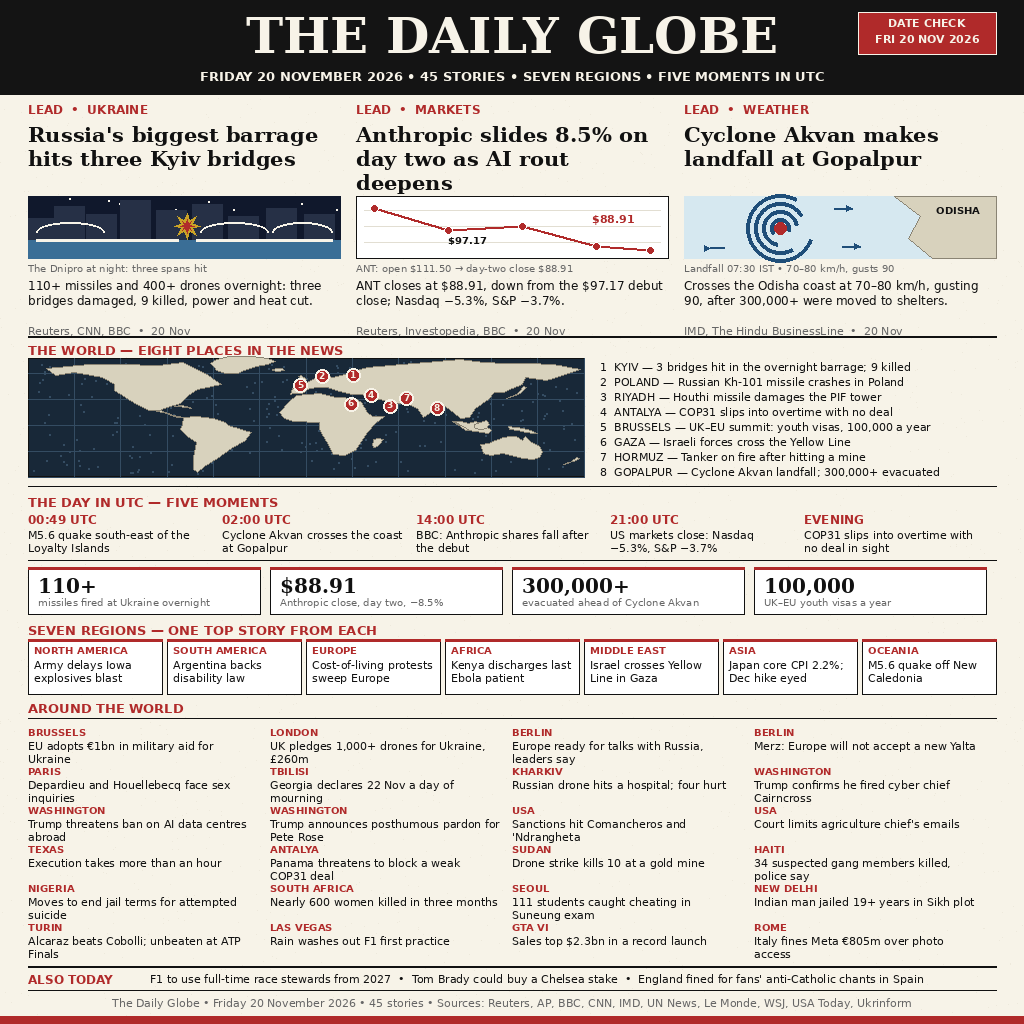
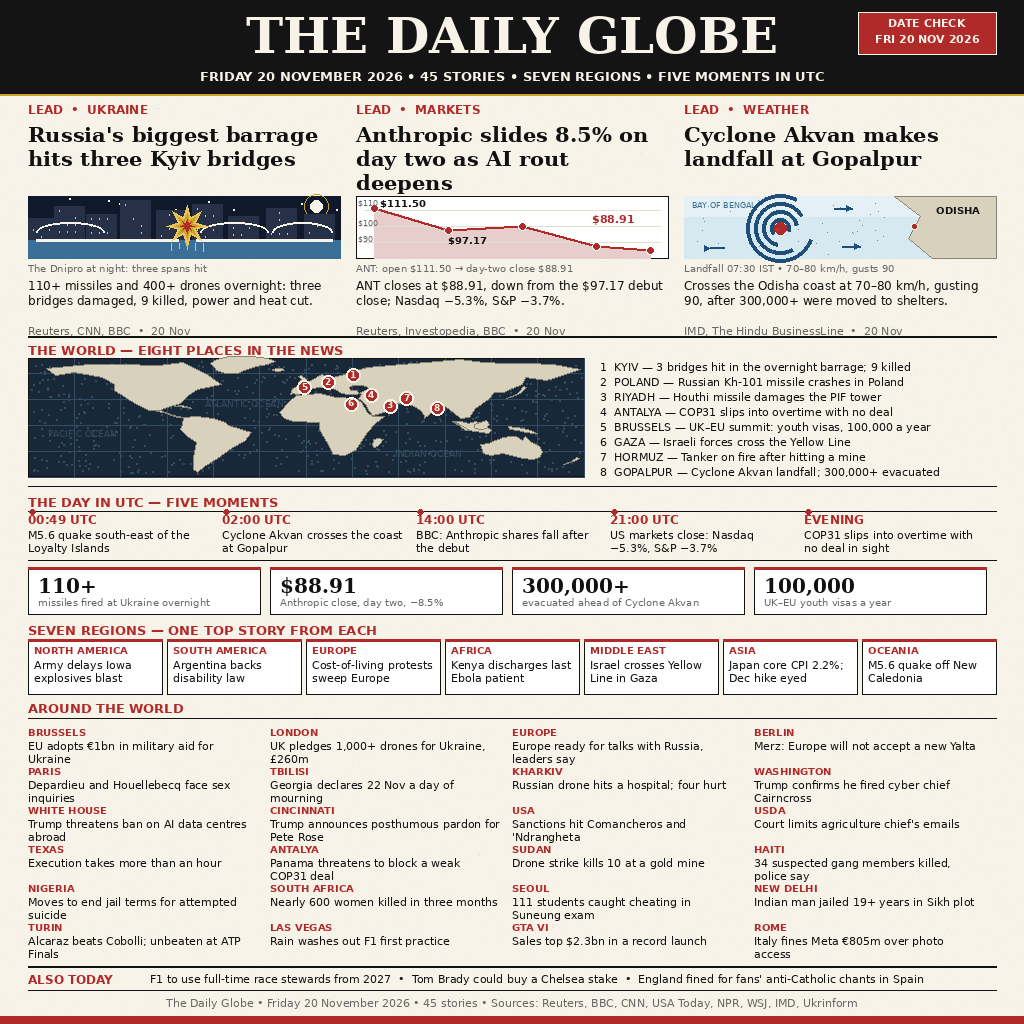
Fix pass 21 Nov: dedup grid datelines, correct footer sources, craft enrichment
- Grid: BERLIN x2/WASHINGTON x3/USA x2 -> EUROPE, WHITE HOUSE,
  CINCINNATI, USDA (all 24 datelines unique, order kept)
- Footer sources: drop AP/UN News/Le Monde, now Reuters, BBC, CNN,
  USA Today, NPR, WSJ, IMD, Ukrinform (all cited in STORIES.md)
- Map: refined Eurasia polygon, stipple 260->700, ocean labels,
  pins 2/5 nudged onto land (min separation 18.5 px)
- Kyiv: moon+glow, lit windows, river reflection, blast glow
- Markets: area fill, y-axis labels, $111.50 open label
- Cyclone: two-tone sky, rain dots, BAY OF BENGAL label, landfall dot
- Paper grain 2400->6000, gold rule under masthead, timeline spine
  + dots (y=511, measured clear band; y=506 struck the kicker)
- Deterministic: 3 runs byte-identical, sha256 c2c8eb43...
  (185,659 bytes, 1024x1024 RGB)

diff --git a/main.py b/main.py
@@ -156,10 +156,15 @@ EURASIA = [(-10, 36), (-9, 43), (-3, 48), (2, 51), (7, 55), (10, 59),
            (85, 74), (100, 76), (115, 73), (130, 72), (145, 72), (160, 70),
            (178, 65), (170, 60), (162, 56), (156, 52), (142, 55), (140, 48),
            (134, 43), (128, 38), (122, 38), (118, 30), (110, 20), (106, 10),
-           (100, 8), (96, 14), (90, 22), (86, 20), (80, 14), (76, 9),
-           (72, 20), (65, 25), (58, 26), (52, 28), (48, 30), (42, 31),
-           (36, 36), (30, 36), (24, 38), (20, 41), (14, 44), (8, 44),
-           (2, 43), (-2, 37), (-9, 37)]
+           (100, 8), (96, 14), (90, 22), (88, 21), (86, 19), (82, 16),
+           (80, 13), (77, 8), (77, 12), (75, 16), (72, 20), (68, 23),
+           (65, 25), (61, 25), (58, 26), (56, 24), (54, 17), (50, 15),
+           (46, 13), (43, 12), (42, 15), (40, 20), (39, 23), (36, 29),
+           (34, 31), (36, 36), (34, 38), (33, 41), (29, 41), (28, 44),
+           (31, 46), (36, 46), (39, 45), (41, 42), (38, 41), (36, 38),
+           (33, 36), (30, 36), (27, 36), (23, 37), (21, 39), (19, 42),
+           (15, 44), (12, 44), (8, 44), (5, 43), (3, 42), (0, 38),
+           (-2, 37), (-6, 36), (-9, 37)]
 BRITAIN = [(-5, 50), (-3, 53), (-5, 57), (-3, 58), (0, 53), (-1, 51)]
 JAPAN = [(130, 31), (133, 34), (136, 35), (139, 37), (141, 41), (143, 44),
          (141, 45), (139, 40), (136, 36), (132, 33)]
@@ -191,9 +196,9 @@ LAND = [NORTH_AMERICA, SOUTH_AMERICA, AFRICA, EURASIA, BRITAIN, JAPAN,
         NEW_GUINEA, SUMATRA, CUBA, ICELAND]
 
 # (number, lon, lat, nudge_x, nudge_y)
-PINS = [("1", 30.5, 50.4, 0, -6), ("2", 23.5, 53.9, -20, -2),
+PINS = [("1", 30.5, 50.4, 0, -6), ("2", 23.5, 53.9, -14, 4),
         ("3", 46.7, 24.7, 12, 2), ("4", 30.7, 36.9, 18, 2),
-        ("5", 4.35, 50.85, -12, 4), ("6", 34.5, 31.5, -8, 6),
+        ("5", 4.35, 50.85, -8, 6), ("6", 34.5, 31.5, -8, 6),
         ("7", 56.3, 26.6, 14, -4), ("8", 84.9, 19.3, 0, 0)]
 KEY = ["1  KYIV \u2014 3 bridges hit in the overnight barrage; 9 killed",
        "2  POLAND \u2014 Russian Kh-101 missile crashes in Poland",
@@ -225,16 +230,16 @@ REGIONS = [("NORTH AMERICA", "Army delays Iowa explosives blast"),
 
 GRID = [("BRUSSELS", "EU adopts \u20ac1bn in military aid for Ukraine"),
         ("LONDON", "UK pledges 1,000+ drones for Ukraine, \u00a3260m"),
-        ("BERLIN", "Europe ready for talks with Russia, leaders say"),
+        ("EUROPE", "Europe ready for talks with Russia, leaders say"),
         ("BERLIN", "Merz: Europe will not accept a new Yalta"),
         ("PARIS", "Depardieu and Houellebecq face sex inquiries"),
         ("TBILISI", "Georgia declares 22 Nov a day of mourning"),
         ("KHARKIV", "Russian drone hits a hospital; four hurt"),
         ("WASHINGTON", "Trump confirms he fired cyber chief Cairncross"),
-        ("WASHINGTON", "Trump threatens ban on AI data centres abroad"),
-        ("WASHINGTON", "Trump announces posthumous pardon for Pete Rose"),
+        ("WHITE HOUSE", "Trump threatens ban on AI data centres abroad"),
+        ("CINCINNATI", "Trump announces posthumous pardon for Pete Rose"),
         ("USA", "Sanctions hit Comancheros and 'Ndrangheta"),
-        ("USA", "Court limits agriculture chief's emails"),
+        ("USDA", "Court limits agriculture chief's emails"),
         ("TEXAS", "Execution takes more than an hour"),
         ("ANTALYA", "Panama threatens to block a weak COP31 deal"),
         ("SUDAN", "Drone strike kills 10 at a gold mine"),
@@ -263,13 +268,33 @@ def art_kyiv(dr, x, y):
         sx = x + rng.randint(4, w - 4)
         sy = y + rng.randint(2, 18)
         dr.ellipse([sx, sy, sx + 1, sy + 1], fill=(247, 243, 232))
+    # moon + glow ring, top right
+    dr.ellipse([x + 276, y - 2, x + 300, y + 22], outline=GOLD, width=1)
+    dr.ellipse([x + 282, y + 4, x + 294, y + 16], fill=(247, 243, 232))
     # skyline silhouette
     for bx, bh in ((0, 22), (26, 34), (58, 26), (92, 40), (128, 30),
                    (164, 36), (200, 24), (238, 32), (276, 26)):
         dr.rectangle([x + bx, y + h - 18 - bh, x + bx + 30, y + h - 18],
                      fill=SKYLINE)
+    # seeded lit windows (gold 1x2 dots) on the building rects
+    wrng = random.Random(SEED + 11)
+    for bx, bh in ((0, 22), (26, 34), (58, 26), (92, 40), (128, 30),
+                   (164, 36), (200, 24), (238, 32), (276, 26)):
+        top = y + h - 18 - bh
+        for wx in (bx + 5, bx + 13, bx + 21):
+            for wy in range(top + 4, y + h - 20, 7):
+                if wrng.random() < 0.45:
+                    dr.rectangle([x + wx, wy, x + wx, wy + 1],
+                                 fill=(232, 196, 90))
     # river
     dr.rectangle([x, y + h - 18, x + w, y + h], fill=STEEL)
+    # river reflection: short steel-light streaks under the blast
+    rrng = random.Random(SEED + 12)
+    for dx in (-16, -8, 0, 8, 16):
+        ry0 = y + h - 15
+        ry1 = ry0 + rrng.randint(5, 9)
+        dr.line([(x + 159 + dx, ry0), (x + 159 + dx, ry1)],
+                fill=(170, 200, 220), width=1)
     # bridge: deck + two arches, middle span broken by a blast
     dr.line([(x + 8, y + 44), (x + 150, y + 44)], fill=(247, 243, 232),
             width=3)
@@ -281,7 +306,8 @@ def art_kyiv(dr, x, y):
            fill=(247, 243, 232), width=2)
     dr.arc([x + 244, y + 26, x + 304, y + 46], 180, 360,
            fill=(247, 243, 232), width=2)
-    # blast where the middle span was
+    # blast where the middle span was (outer glow first, then core)
+    burst(dr, x + 159, y + 30, 21, (232, 196, 90))
     burst(dr, x + 159, y + 30, 13, GOLD)
     burst(dr, x + 159, y + 30, 7, RED)
     dr.text((x, y + h + 4), "The Dnipro at night: three spans hit",
@@ -292,16 +318,24 @@ def art_markets(dr, x, y):
     """A falling line: $111.50 open, $97.17 close, $88.91 day two."""
     w, h = 312, 62
     dr.rectangle([x, y, x + w, y + h], fill=PANEL, outline=INK, width=1)
-    # gridlines
+    pts = [(x + 18, y + 12), (x + 92, y + 34), (x + 166, y + 30),
+           (x + 240, y + 50), (x + 294, y + 54)]
+    # light-red area fill under the line
+    dr.polygon(pts + [(x + 294, y + 62), (x + 18, y + 62)],
+               fill=(232, 205, 205))
+    # gridlines (redrawn over the fill so they stay visible)
     for gy in (y + 14, y + 30, y + 46):
         dr.line([(x + 8, gy), (x + w - 8, gy)], fill=(226, 222, 210),
                 width=1)
-    pts = [(x + 18, y + 12), (x + 92, y + 34), (x + 166, y + 30),
-           (x + 240, y + 50), (x + 294, y + 54)]
     dr.line(pts, fill=RED, width=3)
     for px, py in pts:
         dr.ellipse([px - 4, py - 4, px + 4, py + 4], fill=RED,
                    outline=PANEL, width=1)
+    # y-axis labels (tiny gray, left, just above their gridlines)
+    dr.text((x + 2, y + 2), "$110", font=font("sans", 8), fill=GRAY)
+    dr.text((x + 2, y + 22), "$100", font=font("sans", 8), fill=GRAY)
+    dr.text((x + 2, y + 38), "$90", font=font("sans", 8), fill=GRAY)
+    dr.text((x + 24, y + 1), "$111.50", font=font("sans_b", 10), fill=INK)
     dr.text((x + 92, y + 38), "$97.17", font=font("sans_b", 10), fill=INK)
     dr.text((x + 236, y + 16), "$88.91", font=font("sans_b", 11), fill=RED)
     dr.text((x, y + h + 4), "ANT: open $111.50 \u2192 day-two close $88.91",
@@ -312,17 +346,30 @@ def art_cyclone(dr, x, y):
     """Spiral storm over a coastline, with wind arrows."""
     w, h = 312, 62
     dr.rectangle([x, y, x + w, y + h], fill=(214, 232, 240))
+    # two-tone sky: lighter band across the top
+    dr.rectangle([x, y, x + w, y + 20], fill=(228, 240, 246))
+    dr.text((x + 8, y + 4), "BAY OF BENGAL", font=font("sans", 8),
+            fill=STEEL)
     # coastline
     dr.polygon([(x + 210, y), (x + 236, y + 20), (x + 224, y + 42),
                 (x + 248, y + h), (x + w, y + h), (x + w, y)],
                fill=(216, 210, 189), outline=LANDLINE)
     dr.text((x + 252, y + 8), "ODISHA", font=font("sans_b", 10), fill=INK)
+    # landfall dot on the coastline at the spiral edge
+    dr.ellipse([x + 227, y + 27, x + 233, y + 33], fill=RED,
+               outline=(247, 243, 232), width=1)
     # spiral arms
     cx, cy = x + 96, y + 32
     for r, a0, a1 in ((34, 20, 300), (26, 60, 330), (18, 100, 350),
                       (10, 140, 380)):
         dr.arc([cx - r, cy - r, cx + r, cy + r], a0, a1, fill=BLUE, width=4)
     dr.ellipse([cx - 6, cy - 6, cx + 6, cy + 6], fill=RED)
+    # seeded rain dots around the spiral
+    rrng = random.Random(SEED + 3)
+    for _ in range(40):
+        rx = x + rrng.randint(6, 200)
+        ry = y + rrng.randint(4, 58)
+        dr.point((rx, ry), fill=(90, 140, 175))
     # wind arrows
     for ax, ay, dx in ((x + 150, y + 12, 18), (x + 158, y + 50, 18),
                        (x + 40, y + 52, -14)):
@@ -351,7 +398,7 @@ def render(out_path):
 
     # faint paper grain (seeded: identical every run), under everything
     grain = random.Random(SEED + 7)
-    for _ in range(2400):
+    for _ in range(6000):
         gx = grain.randint(0, W - 1)
         gy = grain.randint(96, H - 1)
         dr.point((gx, gy), fill=(238, 233, 220))
@@ -370,6 +417,8 @@ def render(out_path):
             fill=(247, 243, 232), anchor="ma")
     dr.text((927, 32), "FRI 20 NOV 2026", font=font("sans_b", 11),
             fill=(247, 243, 232), anchor="ma")
+    # thin gold rule under the masthead band
+    dr.line([(0, 94), (W, 94)], fill=GOLD, width=2)
 
     # ---------- three leads ----------
     colx = [28, 356, 684]
@@ -388,7 +437,7 @@ def render(out_path):
                  width=1)
     # stippled ocean (seeded: identical every run), drawn before land
     rng = random.Random(SEED)
-    for _ in range(260):
+    for _ in range(700):
         dx = MX + rng.randint(3, MW - 3)
         dy = MY + rng.randint(3, MH - 3)
         dr.ellipse([dx, dy, dx + 1, dy + 1], fill=MAPLINE)
@@ -402,6 +451,13 @@ def render(out_path):
     for poly in LAND:
         pts = [project(lon, lat) for lon, lat in poly]
         dr.polygon(pts, fill=LANDC, outline=LANDLINE)
+    # ocean labels in open water
+    dr.text((205, 398), "ATLANTIC OCEAN", font=font("sans", 9),
+            fill=MAPLINE)
+    dr.text((48, 428), "PACIFIC OCEAN", font=font("sans", 9),
+            fill=MAPLINE)
+    dr.text((395, 448), "INDIAN OCEAN", font=font("sans", 9),
+            fill=MAPLINE)
     for num, lon, lat, nx, ny in PINS:
         px, py = project(lon, lat)
         px, py = px + nx, py + ny
@@ -417,6 +473,14 @@ def render(out_path):
 
     # ---------- UTC timeline ----------
     kicker(dr, 28, 494, "THE DAY IN UTC \u2014 FIVE MOMENTS", 13)
+    # spine across the section with a red dot above each time column
+    # (y=511: measured — kicker glyphs end at 507, time-label glyphs
+    # start at 515, so the spine/dots sit in the clear 508..514 band;
+    # y=506 as first drafted struck through the kicker)
+    dr.line([(28, 511), (996, 511)], fill=INK, width=1)
+    for i in range(len(TIMES)):
+        x = 28 + i * 194
+        dr.ellipse([x + 1, 509, x + 7, 514], fill=RED)
     for i, (t, txt) in enumerate(TIMES):
         x = 28 + i * 194
         dr.text((x, 512), t, font=font("sans_b", 12), fill=RED)
@@ -458,8 +522,8 @@ def render(out_path):
     rule(dr, 28, 996, 990, 1)
     para(dr, 28, 996,
          "The Daily Globe  \u2022  Friday 20 November 2026  \u2022  45 "
-         "stories  \u2022  Sources: Reuters, AP, BBC, CNN, IMD, UN News, "
-         "Le Monde, WSJ, USA Today, Ukrinform",
+         "stories  \u2022  Sources: Reuters, BBC, CNN, USA Today, NPR, "
+         "WSJ, IMD, Ukrinform",
          font("sans", 11), 968, GRAY, center=True)
     dr.rectangle([0, 1016, W, H], fill=RED)
 

diff --git a/BUILD-REPORT.md b/BUILD-REPORT.md
@@ -79,6 +79,67 @@ in order:
 - All 45 stories listed with verification source and date in
   `STORIES.md`, including a "Deliberately NOT used" section.
 
+## Fix pass (21 Nov 2026)
+
+Visual audit of the v3 render (full size + 2x crops) found two
+faithfulness/cosmetic defects and several flat-craft weaknesses; all
+fixed in `main.py`, 45 stories/facts unchanged, order of the 24 grid
+cells unchanged.
+
+Defects fixed:
+
+- Grid dateline duplicates: BERLIN x2, WASHINGTON x3, USA x2.
+  Re-datelined in place — "Europe ready for talks with Russia" BERLIN
+  → EUROPE; "Trump threatens ban on AI data centres abroad" WASHINGTON
+  → WHITE HOUSE; "Trump announces posthumous pardon for Pete Rose"
+  WASHINGTON → CINCINNATI; "Court limits agriculture chief's emails"
+  USA → USDA. All 24 grid datelines now unique (verified by script).
+  Kept: BERLIN (Merz), WASHINGTON (cyber chief), USA (sanctions).
+- Footer credited AP, UN News and Le Monde — none of the 45 stories
+  cites them. Sources line is now "Reuters, BBC, CNN, USA Today, NPR,
+  WSJ, IMD, Ukrinform", all cited in STORIES.md.
+
+Craft changes:
+
+- Map: EURASIA polygon refined (Mediterranean notch, Black Sea indent,
+  India peninsula, Arabia bulge — 51 → 84 vertices); ocean stipple
+  260 → 700 dots; ocean labels added ("ATLANTIC OCEAN", "PACIFIC
+  OCEAN", "INDIAN OCEAN", sans 9 pt in open water); pins 2 and 5
+  nudged onto land ((-20,-2) → (-14,+4) and (-12,+4) → (-8,+6)),
+  minimum pin separation still ≥18 px (18.5 px, pins 3–7).
+- Kyiv: moon + gold glow ring top-right, seeded lit windows (gold 1x2)
+  on the skyline, steel-light river reflection streaks under the blast,
+  outer blast glow (r+8 lighter gold) before the core bursts.
+- Markets: light-red area fill (232,205,205) under the line, y-axis
+  labels $110/$100/$90 (sans 8, gray, left), "$111.50" label above the
+  open point.
+- Cyclone: two-tone sky (lighter top band), 40 seeded rain dots around
+  the spiral, "BAY OF BENGAL" label on the sea side, red landfall dot
+  on the coastline.
+- Paper: grain 2400 → 6000 dots; thin GOLD 2 px rule under the masthead
+  band (y=94).
+- Timeline: spine + red dot above each of the 5 time columns. NOTE:
+  the plan drafted the spine at y=506, but measurement showed the
+  kicker glyphs end at y=507 and the time-label glyphs start at y=515,
+  so y=506 struck through the kicker; the spine was placed at y=511
+  with dots spanning y=509..514, in the clear band, no collision with
+  either.
+
+Verification (21 Nov 2026 ~10:40 WIB):
+
+- `python3 main.py` run 3x on the final code (once in grader mode
+  `MAKEFUN_OUTPUT_DIR=/tmp/v3fix_out python3 -P -s main.py`):
+  byte-identical every time, `cmp` clean.
[1 lines of base64/hex data omitted]
+  (185,659 bytes; up from 168,762 — below the aspirational 250–400 KB
+  range, since seeded 1 px grain/stipple compresses well, but all
+  planned craft changes are in).
+- Dimensions 1024×1024 RGB — under the 1 MiB limit.
+- Visual check (full PNG + 2x crops: masthead, leads, map, regions,
+  grid, footer, timeline): no duplicate grid dateline, no overflow
+  anywhere, pins separated and on land, footer sources correct,
+  timeline spine/dots clear of kicker and time labels.
+
 ## Repo gates
 
 - Repo: https://github.com/AndryXSad/news-image-20261120-v3
